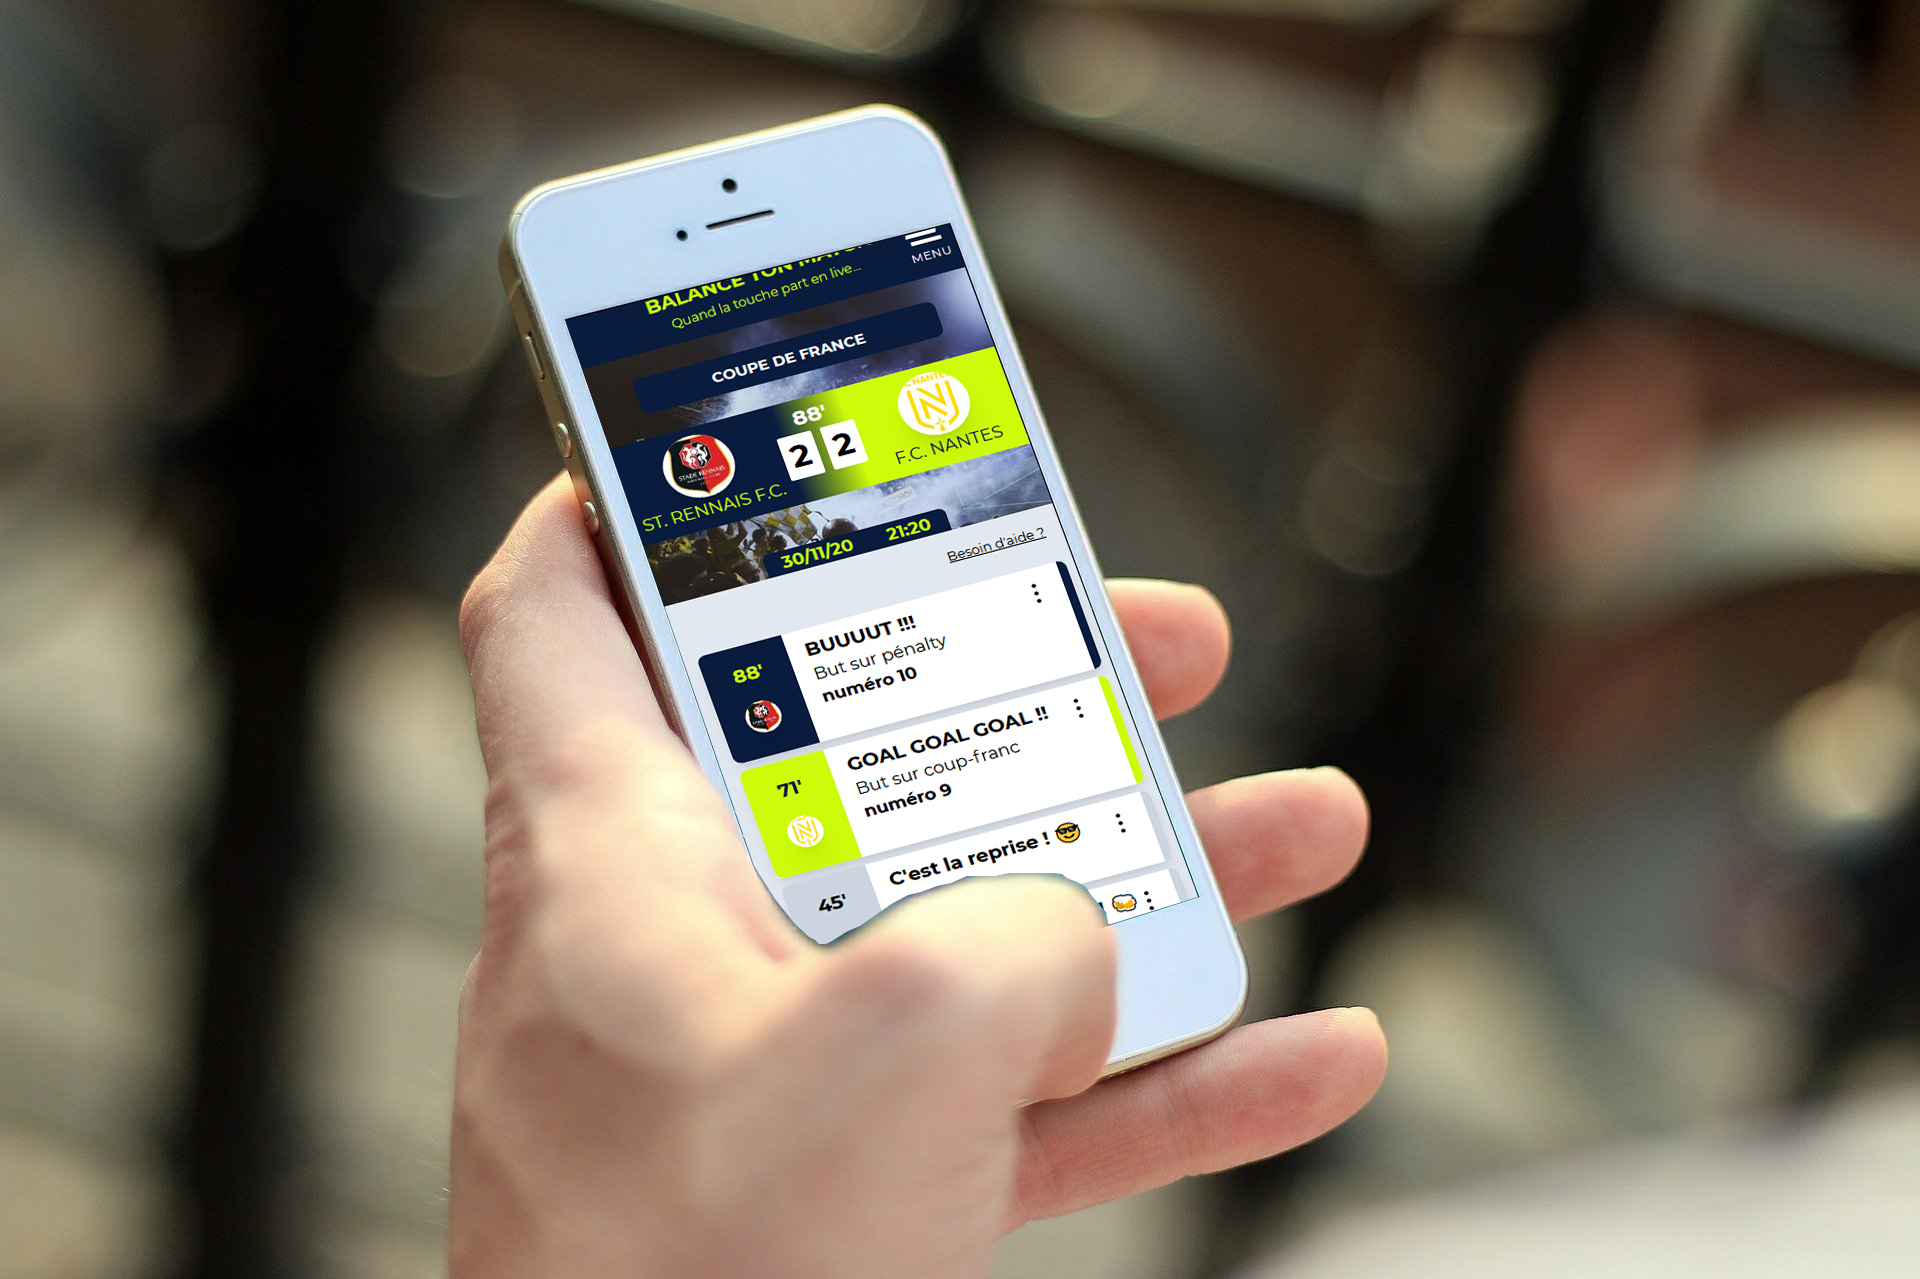
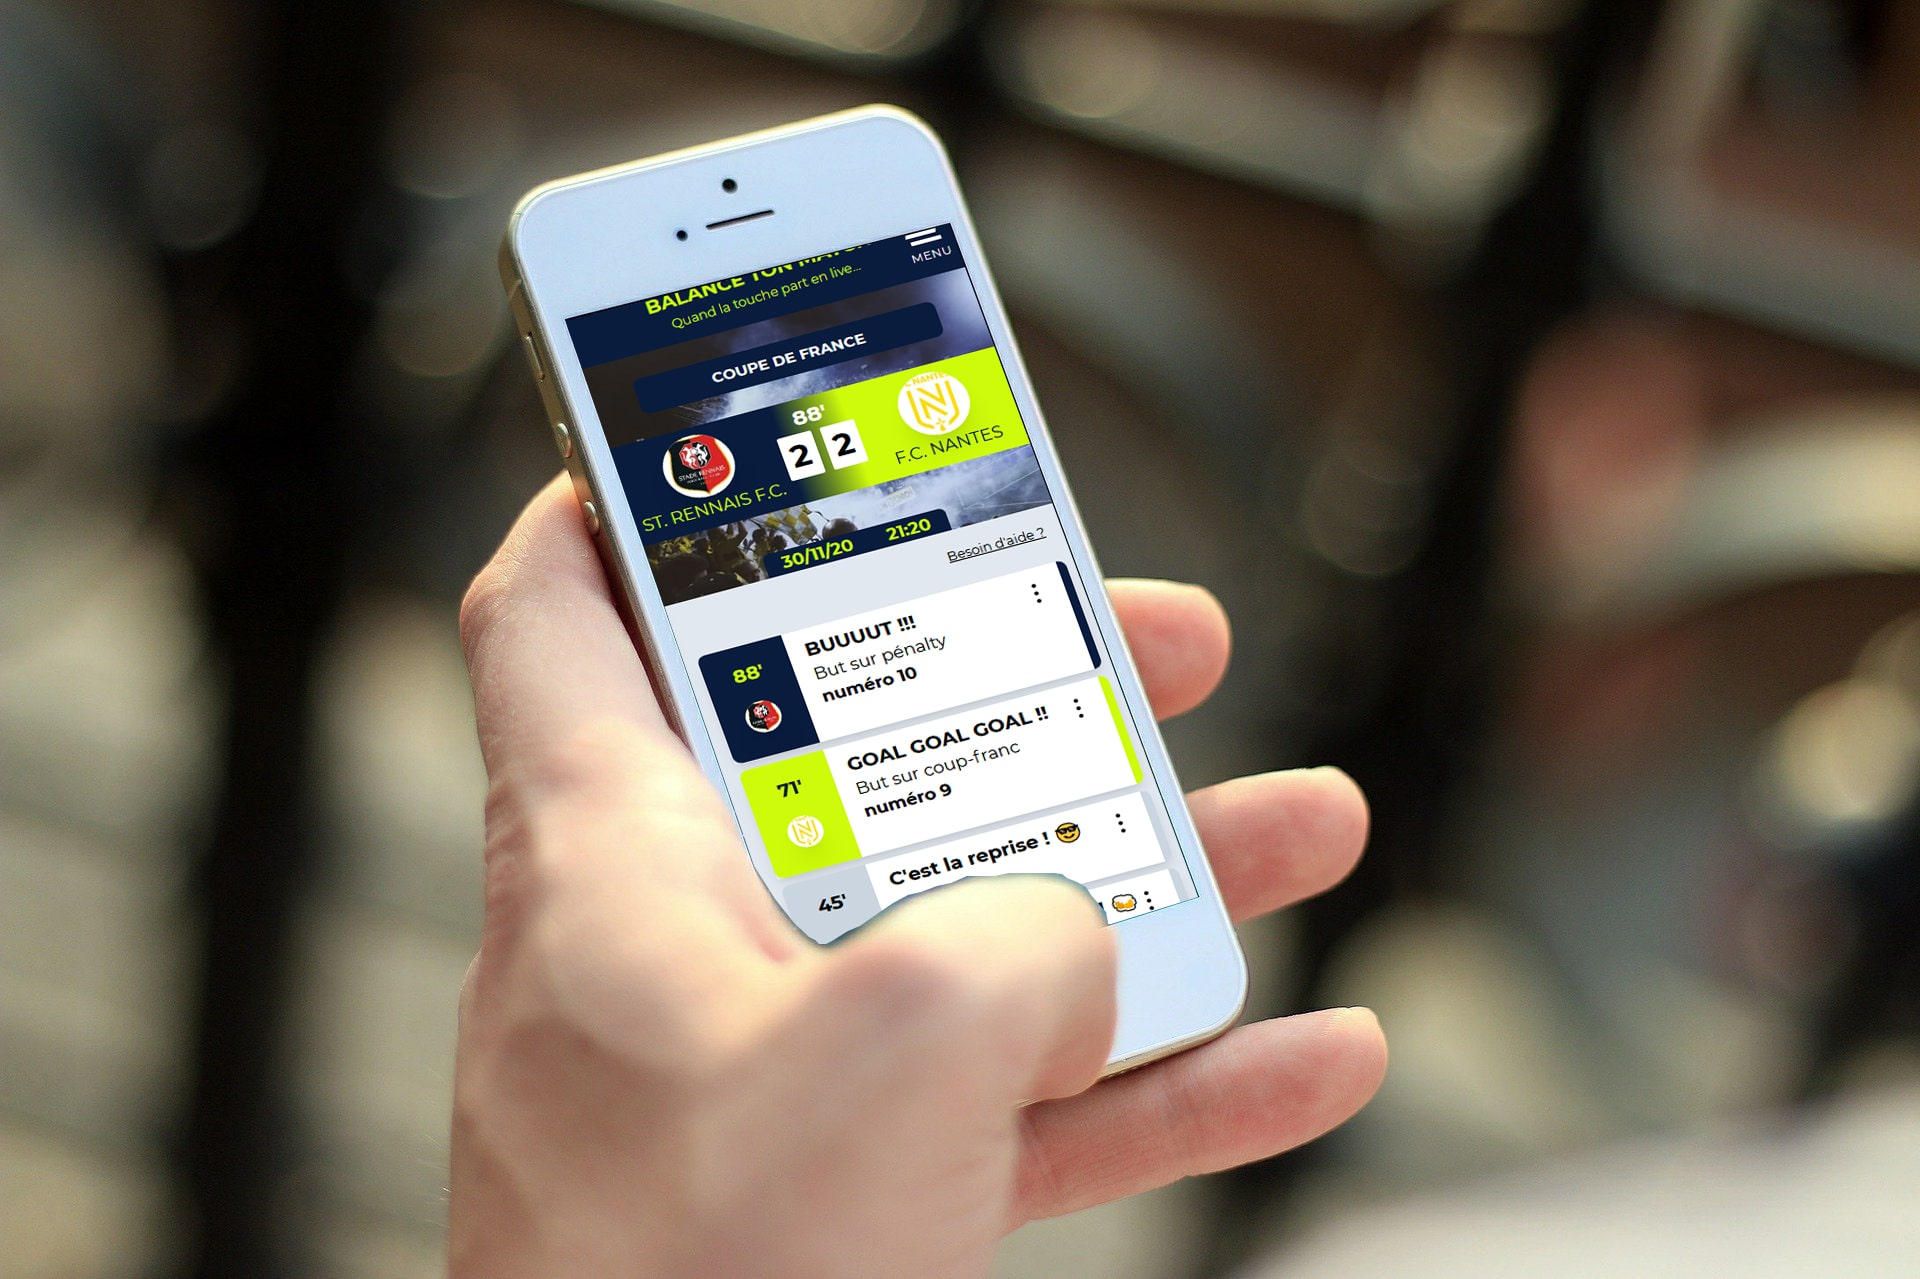
update images

diff --git a/resources/views/competitions/index.blade.php b/resources/views/competitions/index.blade.php
@@ -7,7 +7,7 @@
                 <div class="relative p-4 w-11/12 lg:w-1/3 h-64 my-2">
                     <div class="relative h-64 border-2 rounded-lg overflow-hidden shadow-2xl border-none">
                         <img class="w-full object-cover object-center h-full"
-                            src="{{ asset('images/championnat-region.jpg') }}" alt="Coupe de France">
+                            src="{{ asset('images/championnat-region-min.jpg') }}" alt="Coupe de France">
                         <div class="absolute top-12 left-2 text-gray-900">
                             <select name="region" id="region">
                                 <option value="">Bretagne</option>
@@ -161,7 +161,7 @@
                 <div class="p-4 w-11/12 lg:w-1/3 h-64 my-2">
                     <a href="competitions/coupe-ange-lemee-2020-2021">
                         <div class="relative h-64 border-2 rounded-lg overflow-hidden shadow-2xl border-none">
-                            <img class="w-full object-cover object-center h-full" src="{{ asset('images/coupe-departement.jpeg') }}" alt="coupe de Bretagne">
+                            <img class="w-full object-cover object-center h-full" src="{{ asset('images/coupe-departement-min.jpeg') }}" alt="coupe de Bretagne">
                             <h3 class="absolute top-1 left-1 title-font text-lg bg-primary text-white p-1 rounded-lg">COUPE ANGE LEMÉE</h3>
                         </div>
                     </a>
